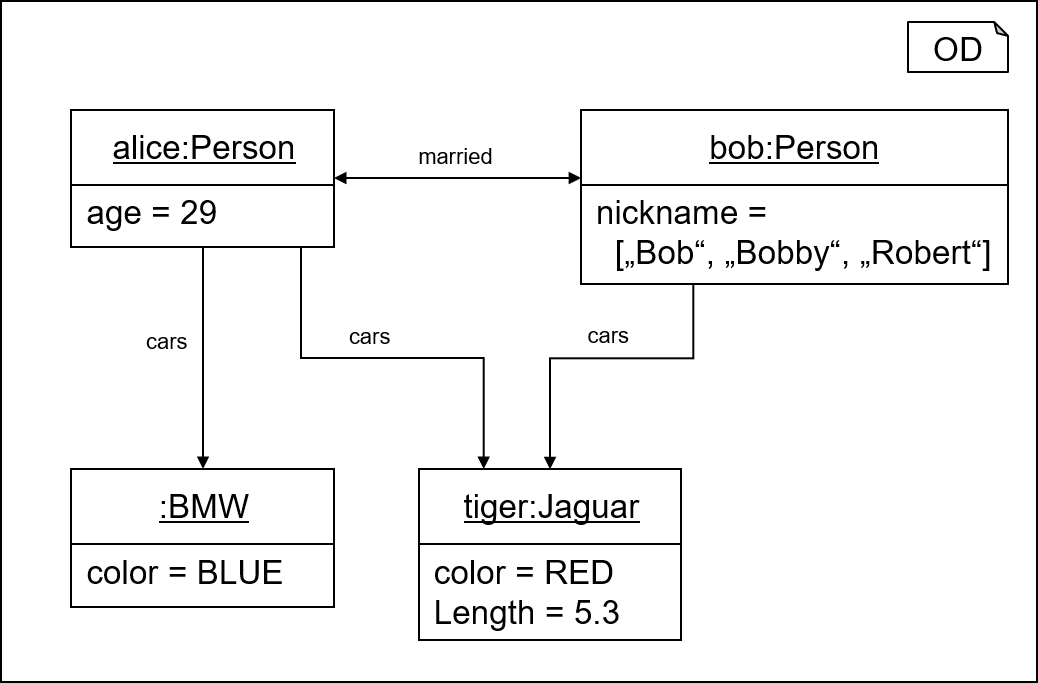
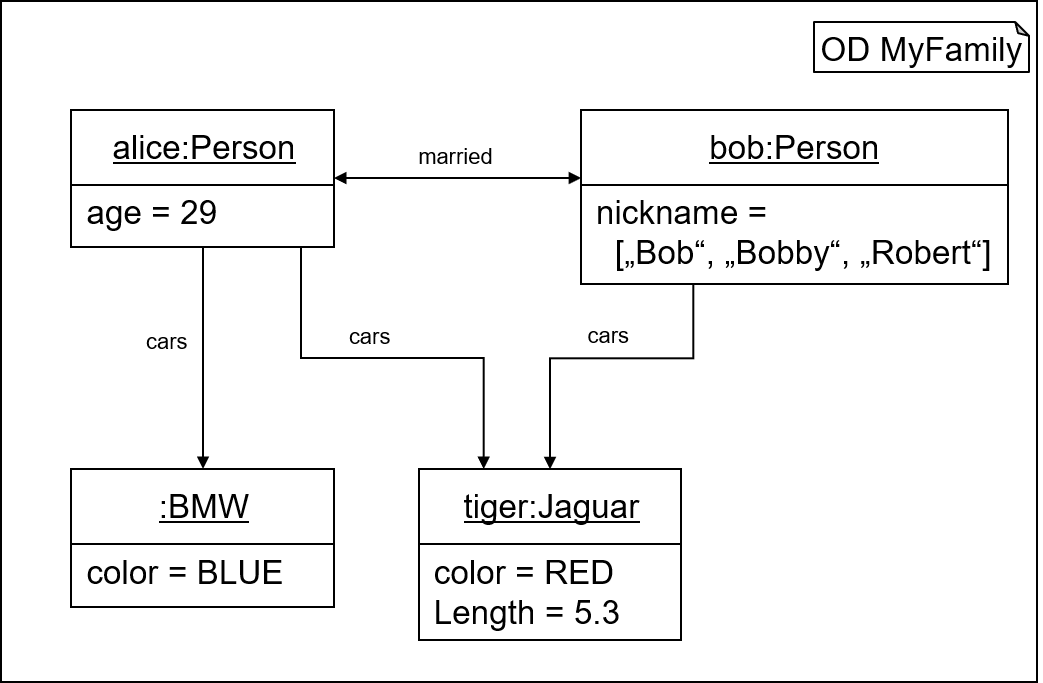
added name to example od pic, reduced version of readme without coco checks since symobl import does not work completely

diff --git a/README.md b/README.md
@@ -199,120 +199,7 @@ java -jar OD4ReportCLI.jar -i Example.od -pp PPExample.od
 The command prints the pretty-printed model contained in the input file into the file `PPExample.od`
 .
 
-### Step 3: Checking Context Conditions
-
-For checking context conditions, the `-c,--coco <arg>` option can be used. Using this option without
-any arguments checks whether the model satisfies all context conditions.
-
-If you are only interested in checking whether a model only satisfies a subset of the context
-conditions or want to explicate that all context conditions should be checked, you can do this by
-additionally providing one of the three arguments `intra`, `inter`, and `type`.
-
-* Using the argument `intra` only executes context conditions concerning violations of intra-model
-  context conditions. These context conditions, for example, check naming conventions.
-* Using the argument `inter` executes all intra-model context conditions and additionally checks
-  whether imported `Variables`, i.e., objects, are defined.
-* Using the argument `type` executes all context coniditions. These context conditions include
-  checking whether used types and methods exist. The behavior when using the argument `type` is the
-  equal to the default behavior when using no arguments.
-
-Execute the following command for trying out a simple example:
-
-```
-java -jar OD4ReportCLI.jar -i Example.od -c
-```
-
-You may notice that the CLI prints nothing to the console when executing this command. This means
-that the model satisfies all context condtions.
-
-Let us now consider a more complex example. Recall the OD `MyFamily` from the `An Example Model`
-section above. For continuing, copy the textual representation of the OD `MyFamily` and save it in a
-file `MyFamily.od` in the directory where the file `OD4ReportCLI.jar` is located.
-
-You can check the different kinds of context conditions, using the `-c,--coco <arg>` option:
-
-```
-java -jar OD4ReportCLI.jar -i MyFamily.od -c intra
-```
-
-```
-java -jar OD4ReportCLI.jar -i MyFamily.od -c inter
-```
-
-```
-java -jar OD4ReportCLI.jar -i MyFamily.od -c type
-```
-
-// TODO: Describe Error
-
-The symbol file of this model has to be imported by the OD model for accessing the type. For the OD
-language, we have not fixed a language for defining types. Instead, the types can be defined in
-arbitrary models of arbitrary languages, as long as the information about the definitions of the
-types are stored in the symbol files of the models and the OD imports these symbol files. This may
-sound complicated at this point, but conceptually it is actually quite simple. This has even a huge
-advantage because it allows us to use the OD language with any other language that defines types.
-You could even use languages that are not defined with MontiCore, as long as suitable symbol files
-are generated from the models of these languages.
-
-The following subsection describes how to fix the error in the example model `MyFamily.od`
-by importing a symbol file defining the (yet undefined) types.
-
-### Step 4: Using the Model Path to Resolve Symbols
-
-In this section we make use of the model path and provide the CLI tool with a symbol file (stored
-symbol table) of another model, which contains the necessary type information.
-
-Create a new directory `cd` in the directory where the CLI tool `OD4ReportCLI.jar` is located. The
-symbol file `MyFamily.cdsym` of a model, which provides all necessary type information, can be
-found [here](doc/MyFamily.cdsym). Download the file, name it `MyFamily.cdsym`, and move it into the
-directory `cd`.
-
-The contents of the symbol file are of minor importance for you as a language user. In case you are
-curious and had a look into the symbol file:
-The symbol file contains a JSON representation of the symbols defined in a model. In this case, the
-symbol file contains information about all sorts of symbols defined in a class diagramm. Usually,
-the CLI tools of MontiCore languages automatically generate the contents of these files and you, as
-a language user, must not be concerned with their contents.
-
-The path containing the directory structure that contains the symbol file is called the "Model Path"
-. If we provide the model path to the tool, it will search for symbols in symbol files, which are
-stored in directories contained in the model path. So, if we want the tool to find our symbol file,
-we have to provide the model path to the tool via the `-path <arg>` option:
-
-```
-java -jar OD4ReportCLI.jar -i MyFamily.od -c type -path <MODELPATH>
-```
-
-where `<MODELPATH>` is the path where you stored the downloaded symbol file. In our example, in case
-you stored the model in the directory `cd`, execute the following command:
-
-```
-java -jar OD4ReportCLI.jar -i MyFamily.od -c type -path cd
-```
-
-Well, executing the above command still produces the same error message. This is because the symbol
-file needs to be imported first, just like in Java. Therefore, we add the following import statement
-to the beginning of the contents contained in the file `MyFamily.od` containing the OD `MyFamily`:
-
-```
-import Types.*;
-
-objectdiagram MyFamily {
-  ...
-}
-```
-
-The added import statement means that the file containing the OD imports all symbols that are stored
-in the symbol file `MyFamily`. Note that you may have to change the name here, depending on how you
-named the symbol file from above. The concrete file ending `.cdsym` is not important in this case.
-However, the file ending of the symbol file must end with `sym`, i.e., the name of the symbol file
-must be compatible to the pattern `*.*sym`. If you strictly followed the instructions of this
-tutorial, then you are fine.
-
-If we now execute the command again, the CLI tool will print no output. This means that it processed
-the model successfully without any context condition violations. Great!
-
-### Step 5: Storing Symbols
+### Step 3: Storing Symbols
 
 The previous section describes how to load symbols from an existing symbol file. Now, we will use
 the CLI tool to store a symbol file for our `MyFamily.od` model. The stored symbol file will contain
